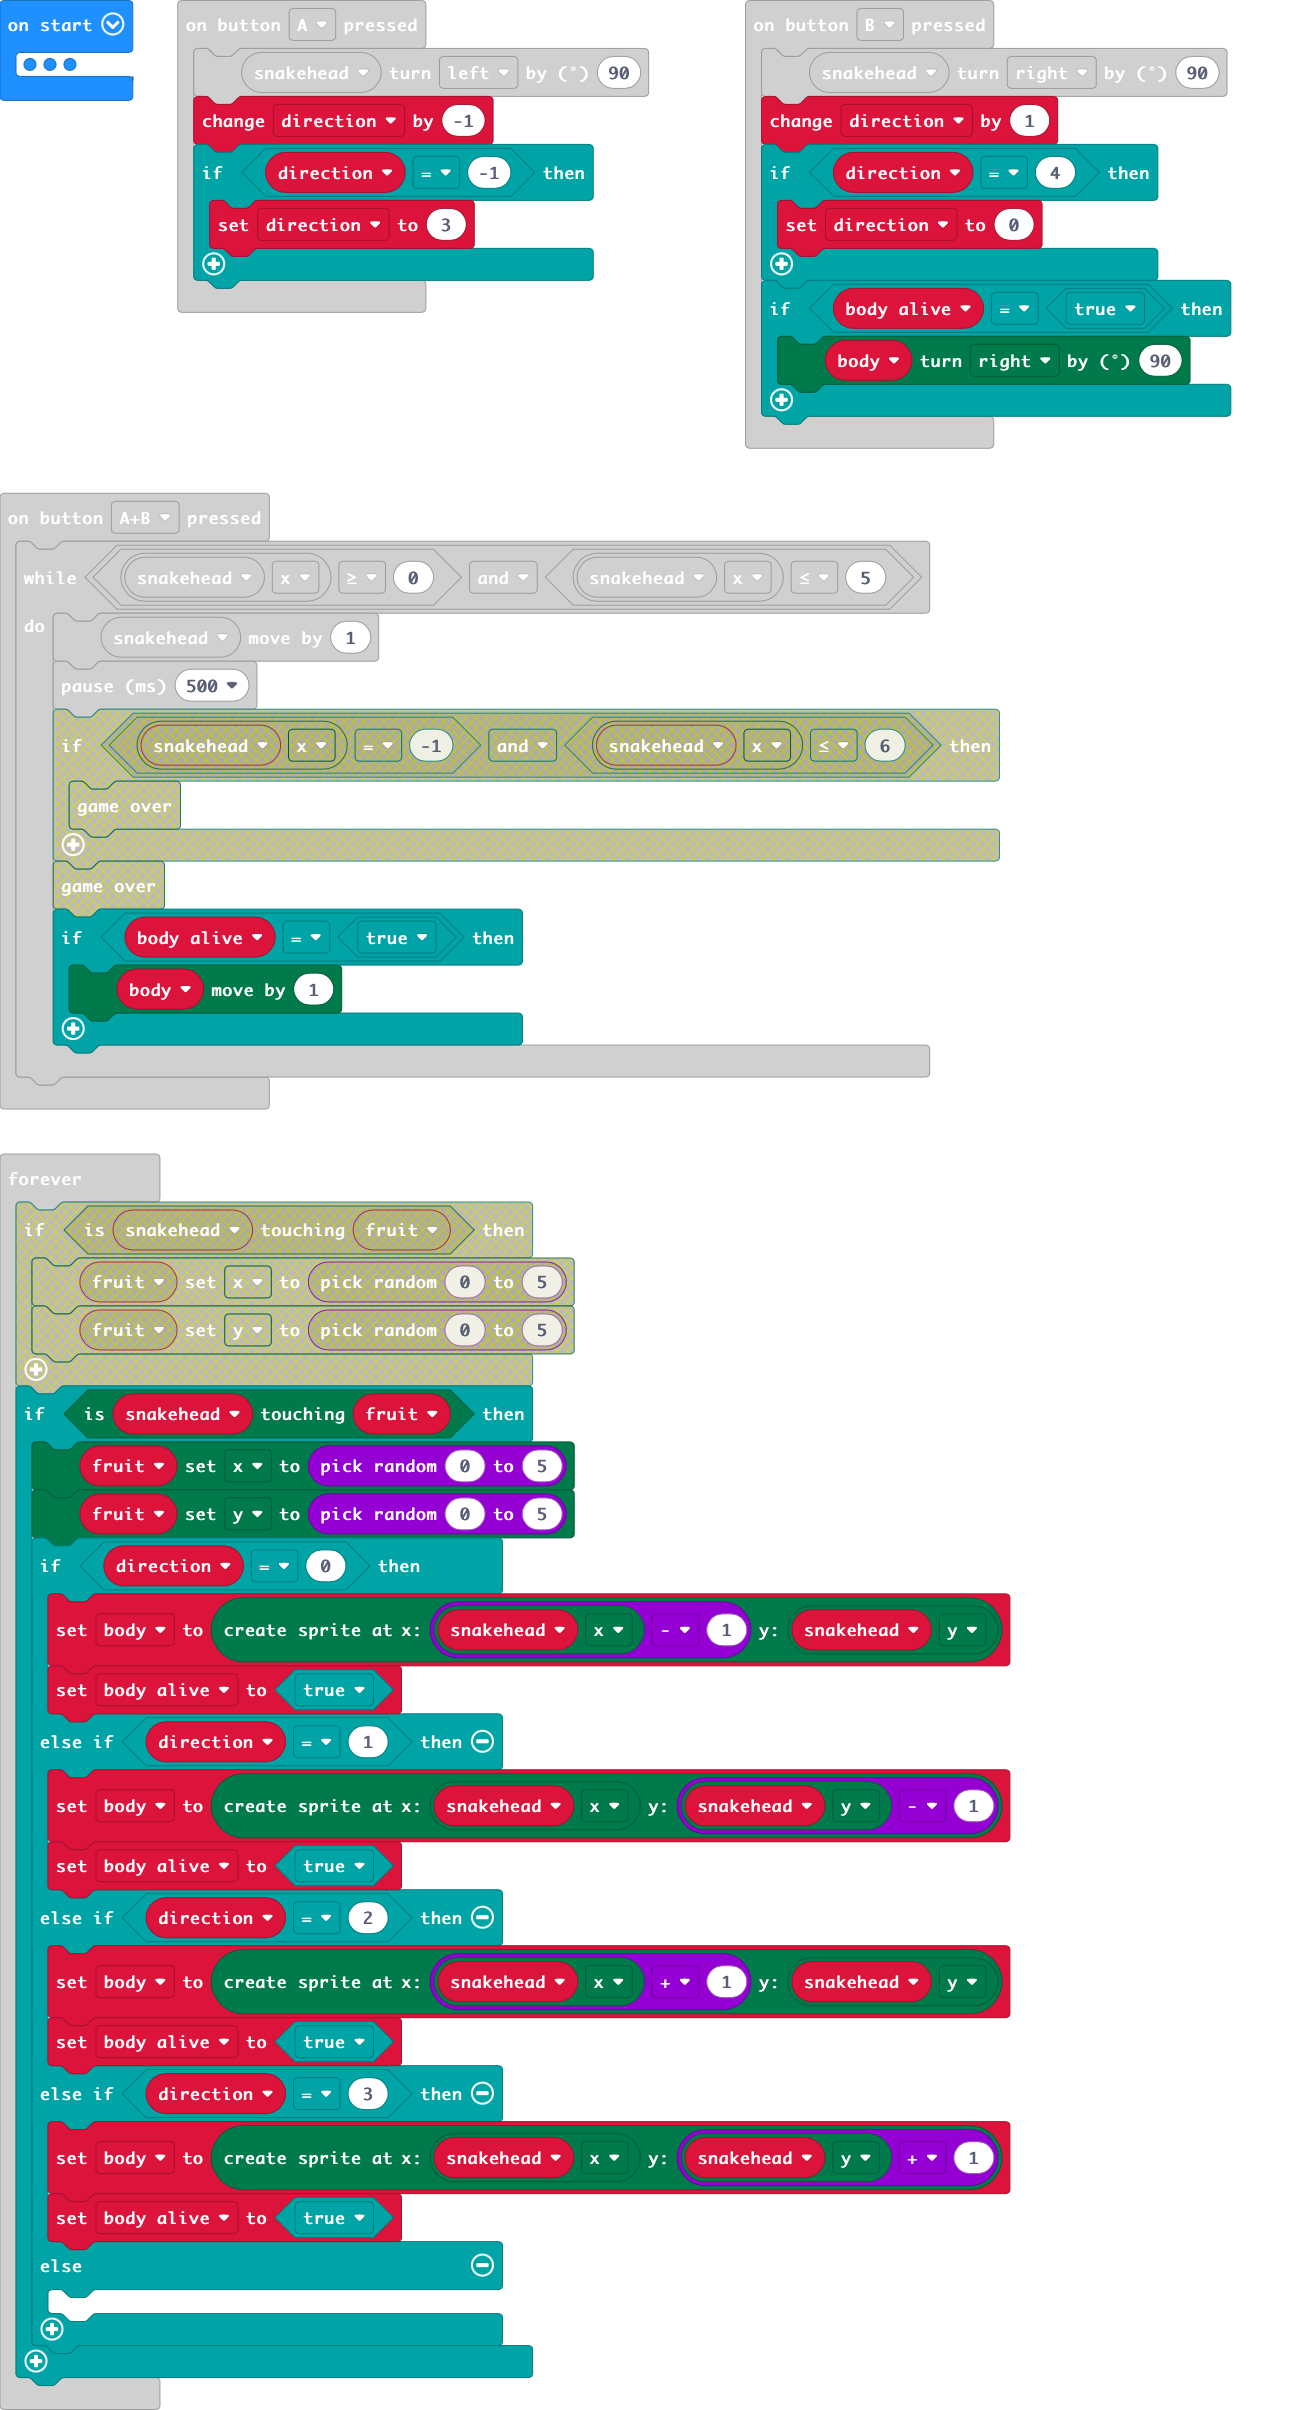
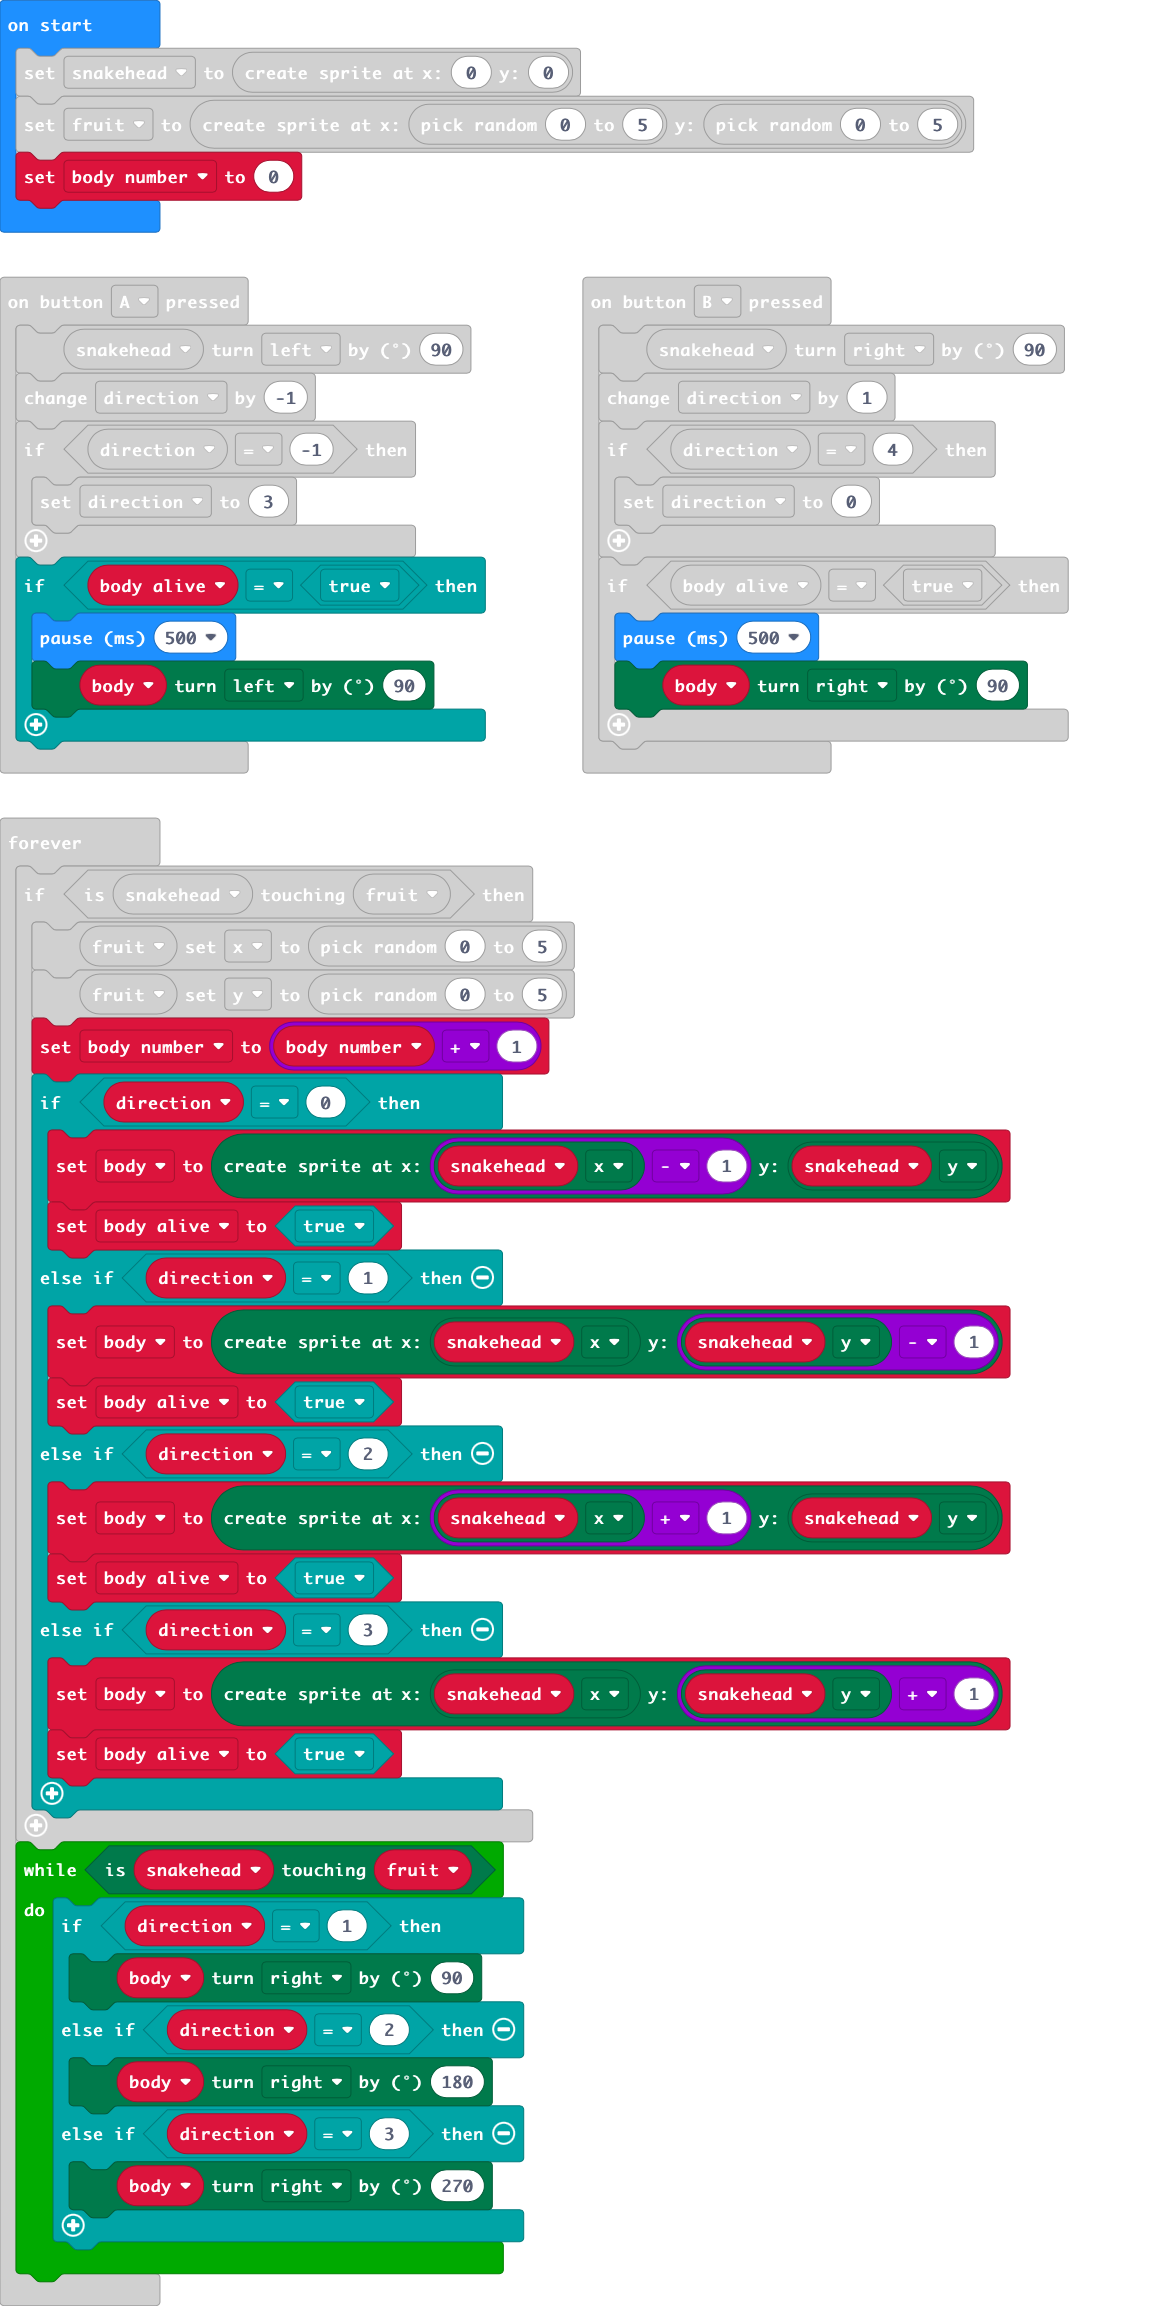
Update main.blocks, main.ts

diff --git a/main.ts b/main.ts
@@ -4,6 +4,10 @@ input.onButtonPressed(Button.A, function () {
     if (direction == -1) {
         direction = 3
     }
+    if (body_alive == true) {
+        basic.pause(500)
+        body.turn(Direction.Left, 90)
+    }
 })
 input.onButtonPressed(Button.AB, function () {
     while (snakehead.get(LedSpriteProperty.X) >= 0 && snakehead.get(LedSpriteProperty.X) <= 5) {
@@ -21,6 +25,7 @@ input.onButtonPressed(Button.B, function () {
         direction = 0
     }
     if (body_alive == true) {
+        basic.pause(500)
         body.turn(Direction.Right, 90)
     }
 })
@@ -30,10 +35,12 @@ let direction = 0
 let snakehead: game.LedSprite = null
 snakehead = game.createSprite(0, 0)
 let fruit = game.createSprite(randint(0, 5), randint(0, 5))
+let body_number = 0
 basic.forever(function () {
     if (snakehead.isTouching(fruit)) {
         fruit.set(LedSpriteProperty.X, randint(0, 5))
         fruit.set(LedSpriteProperty.Y, randint(0, 5))
+        body_number = body_number + 1
         if (direction == 0) {
             body = game.createSprite(snakehead.get(LedSpriteProperty.X) - 1, snakehead.get(LedSpriteProperty.Y))
             body_alive = true
@@ -46,8 +53,15 @@ basic.forever(function () {
         } else if (direction == 3) {
             body = game.createSprite(snakehead.get(LedSpriteProperty.X), snakehead.get(LedSpriteProperty.Y) + 1)
             body_alive = true
-        } else {
-        	
+        }
+    }
+    while (snakehead.isTouching(fruit)) {
+        if (direction == 1) {
+            body.turn(Direction.Right, 90)
+        } else if (direction == 2) {
+            body.turn(Direction.Right, 180)
+        } else if (direction == 3) {
+            body.turn(Direction.Right, 270)
         }
     }
 })
